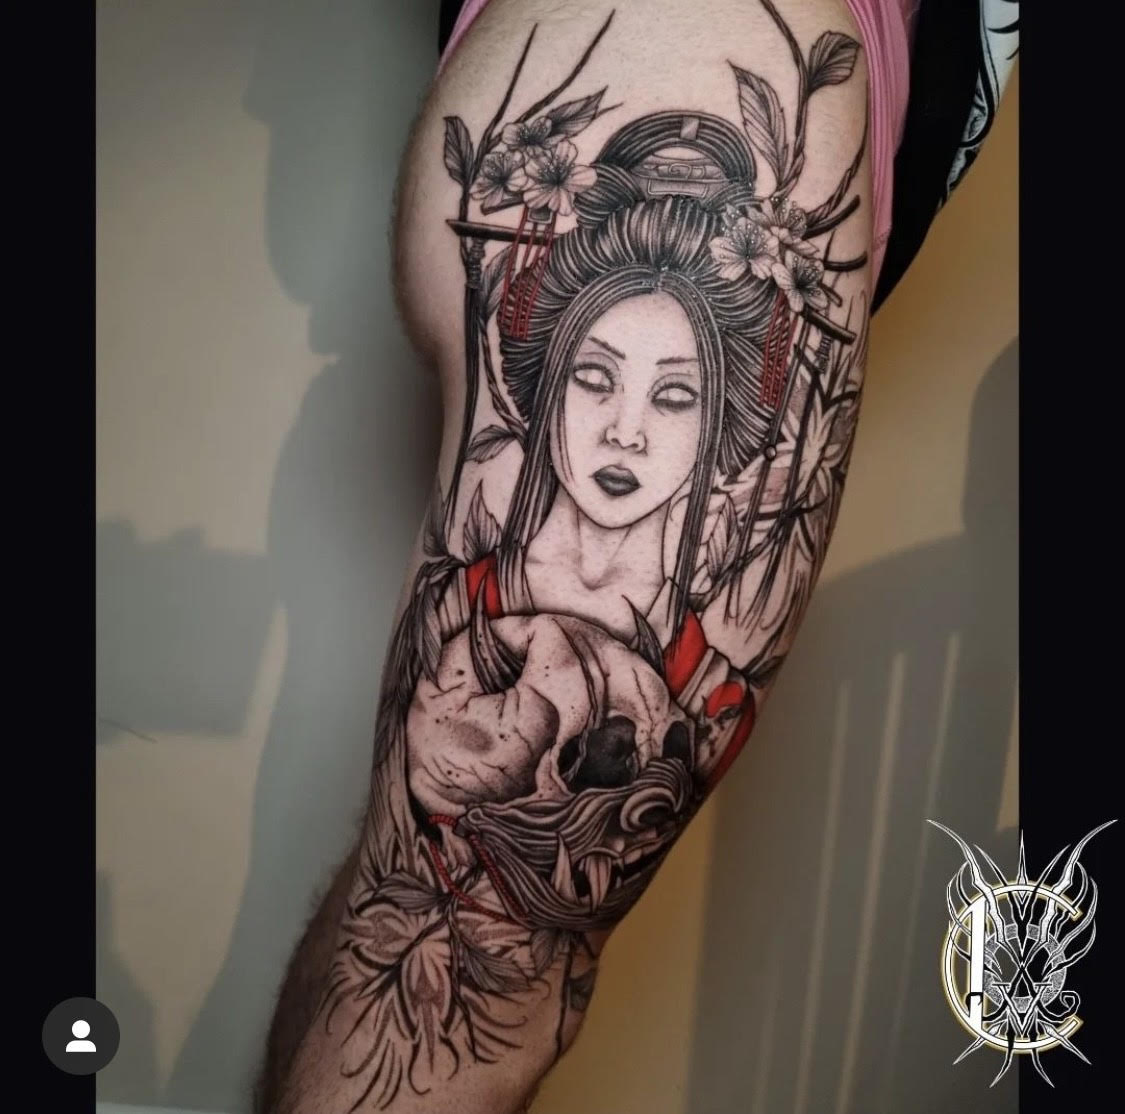
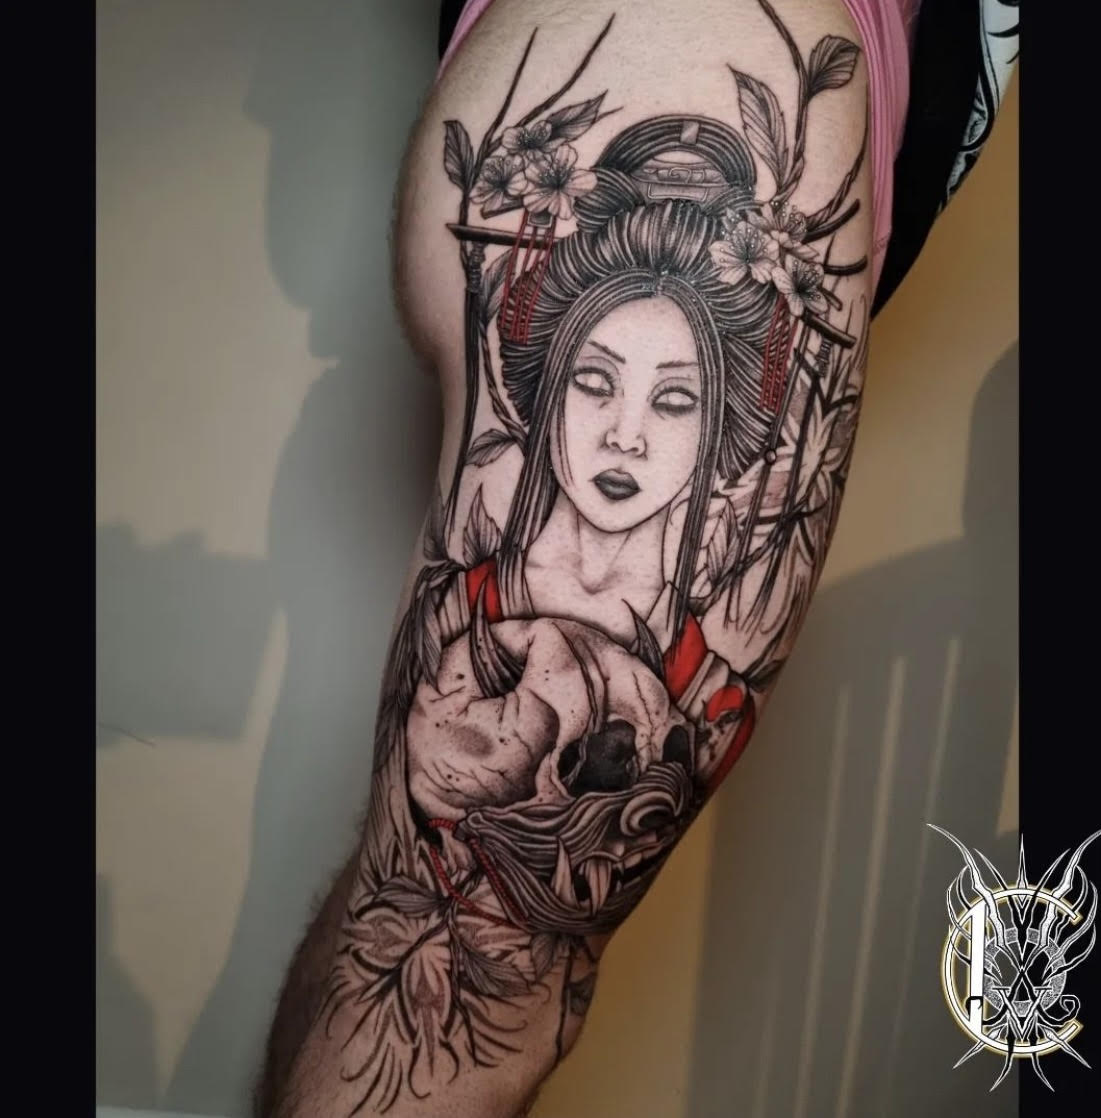
.

diff --git a/index.html b/index.html
@@ -110,7 +110,7 @@
                     </p>
                 </div>
                 <div class="projet">
-                    <img src="img/ent3.jpg" alt="projet3">
+                    <img src="img/ent4.jpg" alt="projet3">
                     <h3>Oni Geisha</h3>
                     <p>
                         Projet realisé sur 3 jours (26H), au Rouen tattoo festival
@@ -124,7 +124,7 @@
                     <img src="img/moo1.jpg" alt="projet1">
                     <h3>Dague</h3>
                     <p>
-                        Projet dague ornementalsur le tibiat
+                        Projet dague ornemental sur le tibiat
                     </p>
                 </div>
                 <div class="projet">
